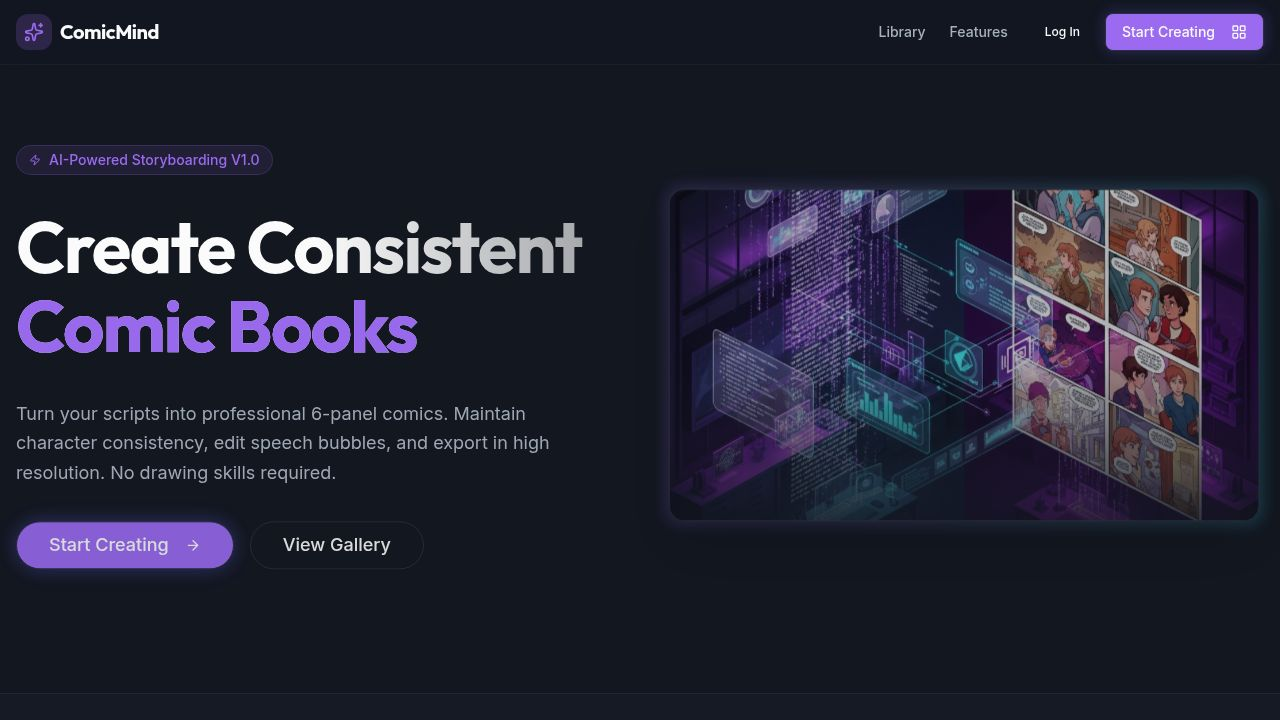
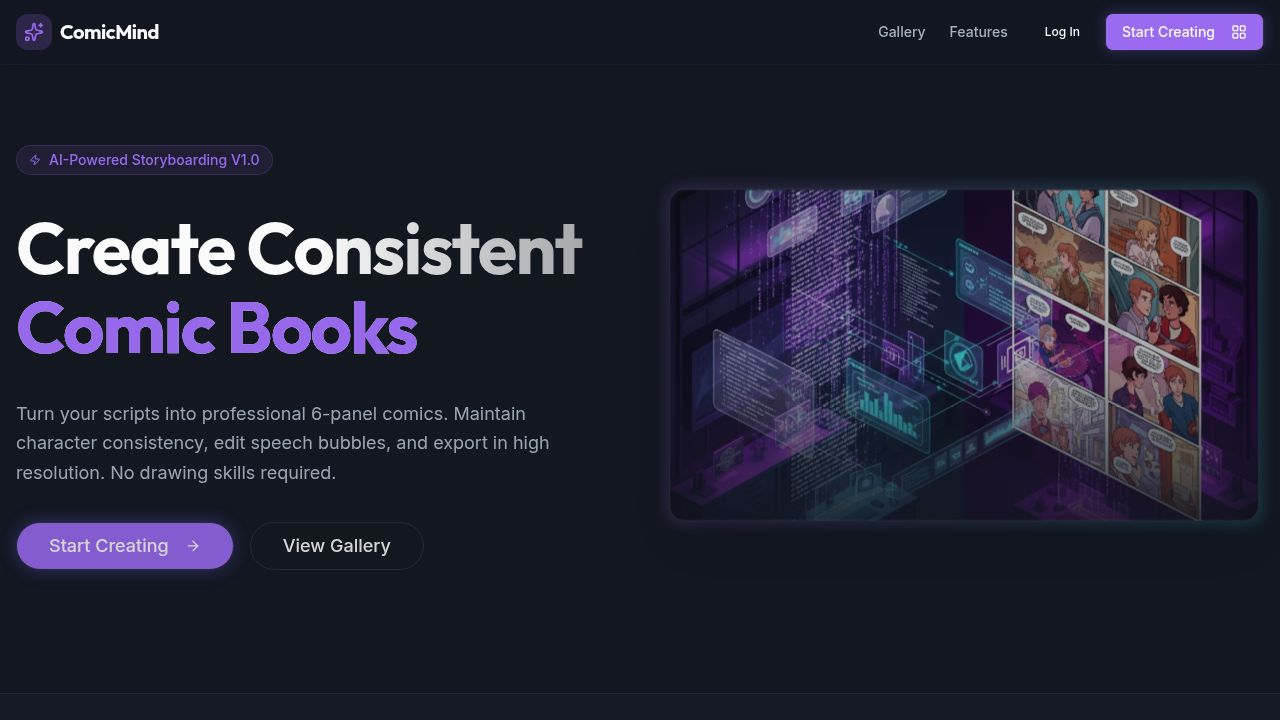
Change the menu item name to Gallery
Update the navigation bar to rename the "Library" menu item to "Gallery".

Replit-Commit-Author: Agent
Replit-Commit-Session-Id: 95df7549-5268-4d5b-8e3e-9283a069b9a8
Replit-Commit-Checkpoint-Type: full_checkpoint
Replit-Commit-Event-Id: 57dc4260-e65c-4a89-bf41-e5604f933ad0
Replit-Commit-Screenshot-Url: https://storage.googleapis.com/screenshot-production-us-central1/41b1bcb2-5e7f-4e44-9a85-87a8af8d7b73/95df7549-5268-4d5b-8e3e-9283a069b9a8/jqcIfY2
Replit-Helium-Checkpoint-Created: true

diff --git a/client/src/components/layout/navbar.tsx b/client/src/components/layout/navbar.tsx
@@ -21,7 +21,7 @@ export function Navbar() {
           <div className="hidden md:flex items-center gap-6 text-sm font-medium text-muted-foreground">
             <Link href="/dashboard">
               <a className={`hover:text-foreground transition-colors ${location === "/dashboard" ? "text-foreground" : ""}`}>
-                Library
+                Gallery
               </a>
             </Link>
             <Link href="/features">
